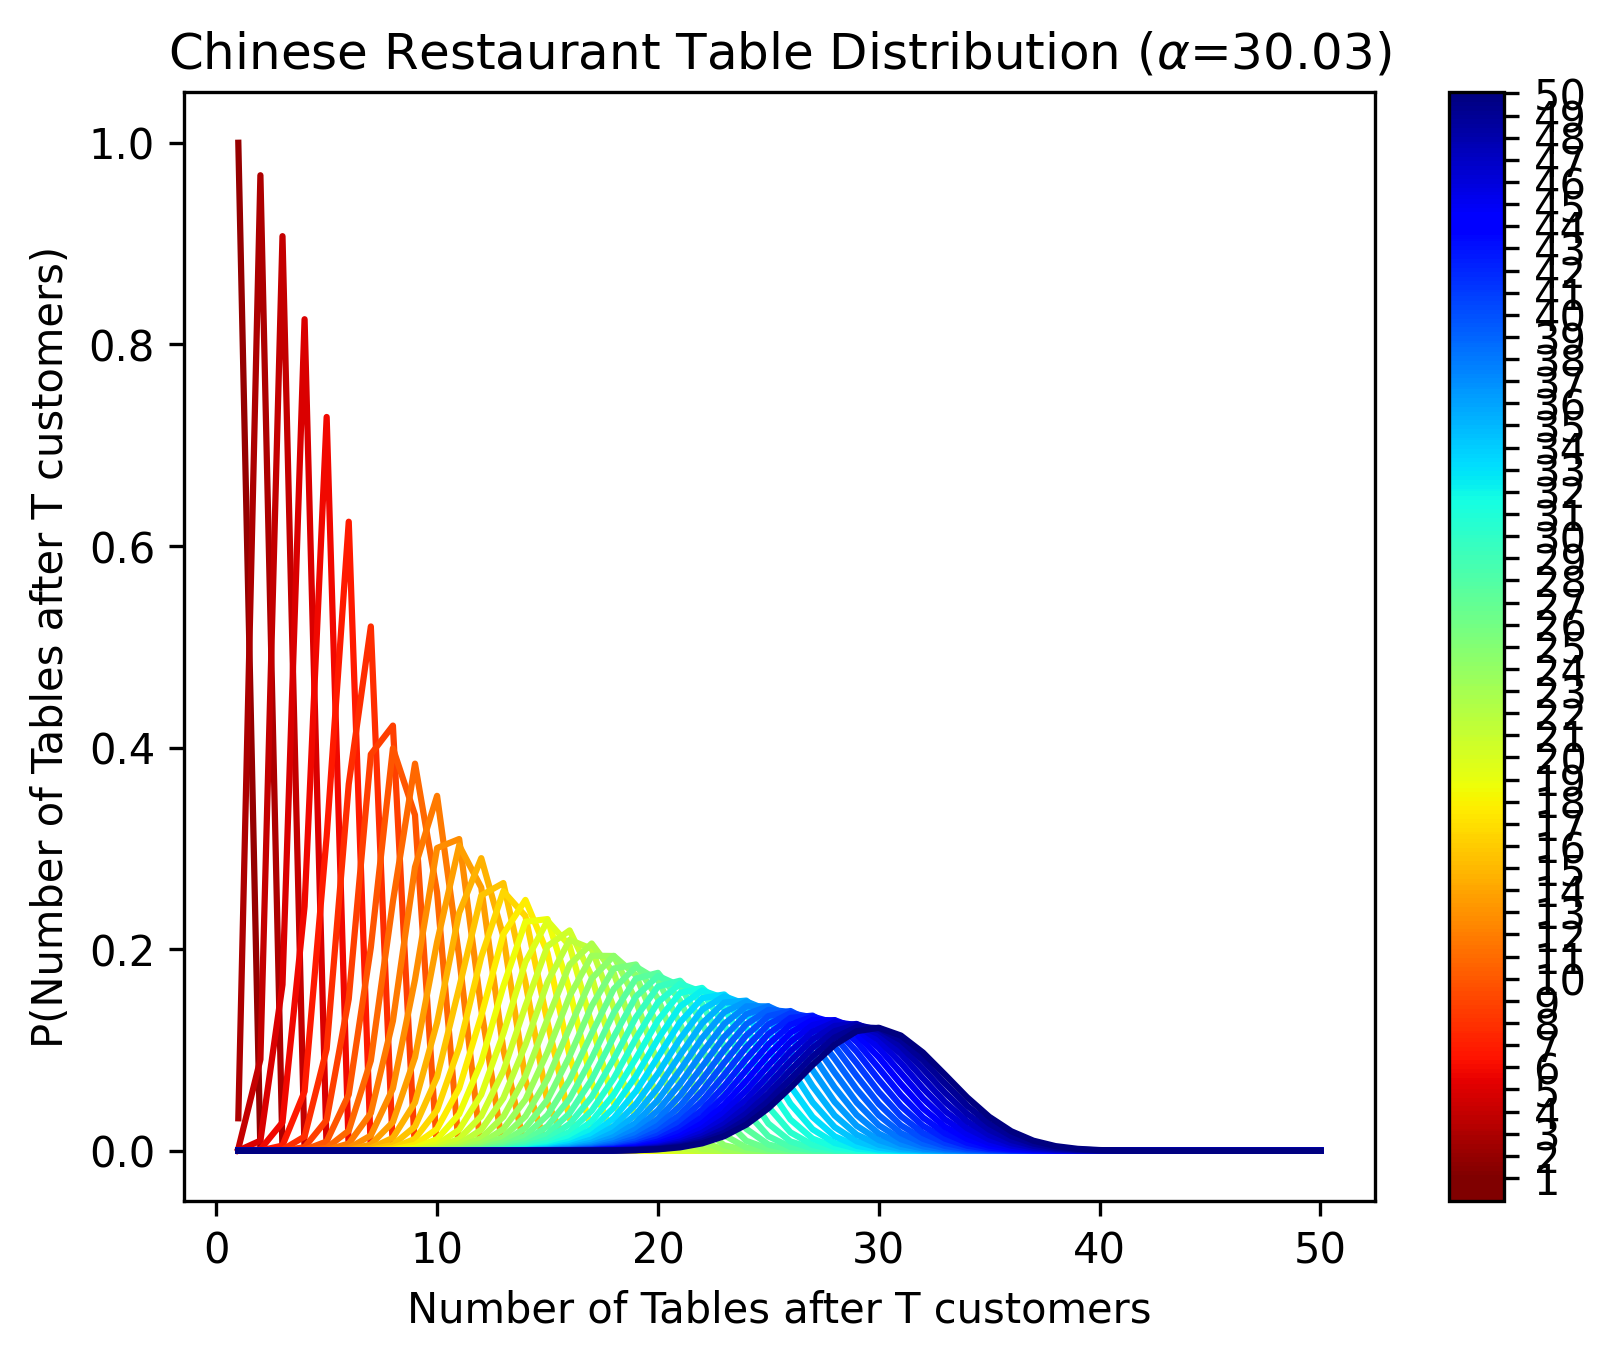
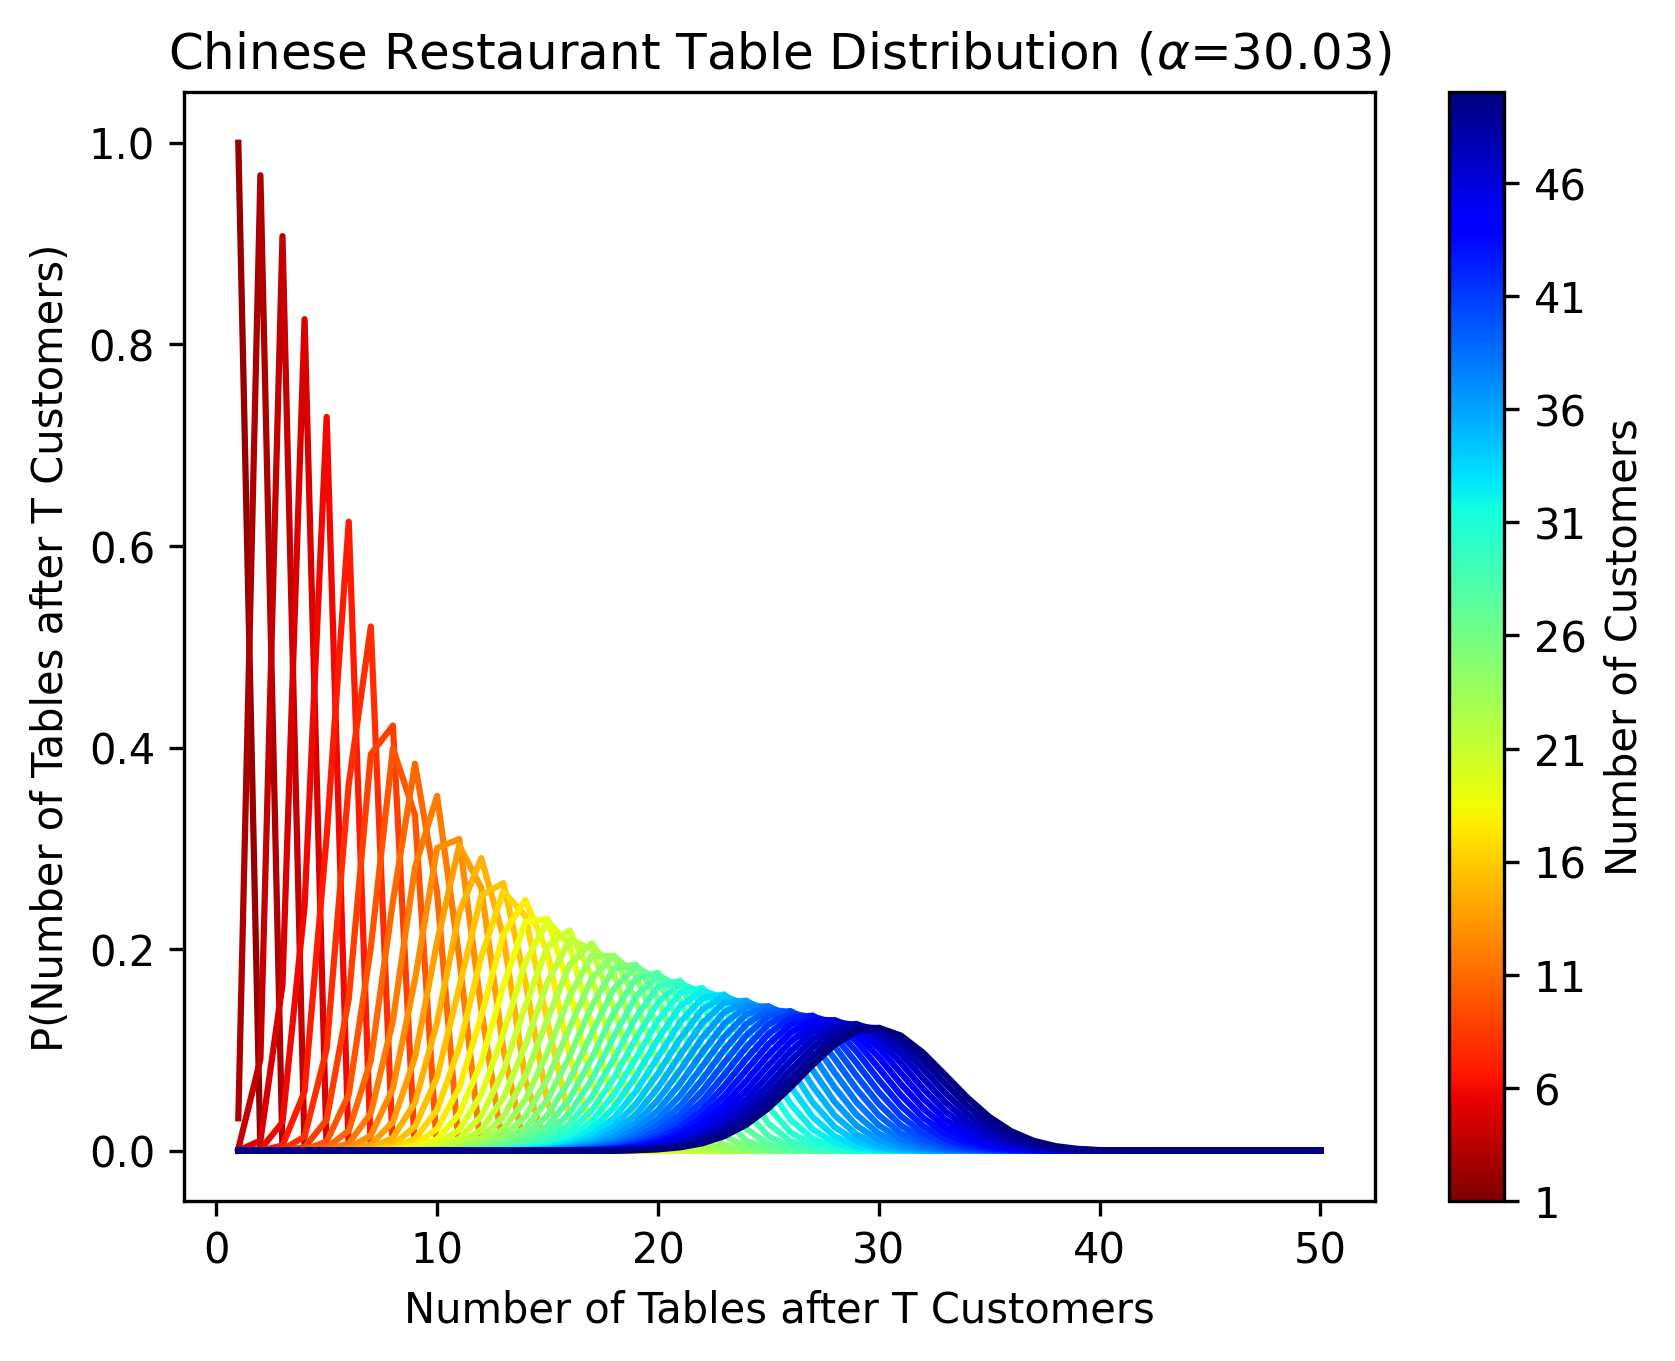
Fixed CRT distribution plot

diff --git a/exp_00_prior/main.py b/exp_00_prior/main.py
@@ -9,7 +9,6 @@ import scipy.stats
 import seaborn as sns
 from sympy.functions.combinatorial.numbers import stirling
 
-
 exp_dir = 'exp_00_prior'
 plot_dir = os.path.join(exp_dir, 'plots')
 os.makedirs(plot_dir, exist_ok=True)
@@ -68,7 +67,7 @@ table_distributions_by_alpha = {}
 for alpha in alphas:
     result = np.zeros(shape=T)
     for k in table_nums:
-        result[k-1] = prob_kth_table_exists_at_time_t(t=T, k=k, alpha=alpha)
+        result[k - 1] = prob_kth_table_exists_at_time_t(t=T, k=k, alpha=alpha)
     table_distributions_by_alpha[alpha] = result
     plt.plot(table_nums, table_distributions_by_alpha[alpha], label=f'alpha={alpha}')
 plt.legend()
@@ -82,29 +81,31 @@ alpha = 30.03
 cmap = plt.get_cmap('jet_r')
 for t in table_nums:
     result = np.zeros(shape=T)
-    for k in np.arange(1, 1+t):
-        result[k-1] = prob_kth_table_exists_at_time_t(t=t, k=k, alpha=alpha)
+    for k in np.arange(1, 1 + t):
+        result[k - 1] = prob_kth_table_exists_at_time_t(t=t, k=k, alpha=alpha)
     table_distributions_by_T[t] = result
     if t == 1 or t == T:
         plt.plot(table_nums,
                  table_distributions_by_T[t],
                  label=f'T={t}',
-                 color=cmap(float(t)/T))
+                 color=cmap(float(t) / T))
     else:
         plt.plot(table_nums,
                  table_distributions_by_T[t],
                  # label=f'T={t}',
-                 color=cmap(float(t)/T))
+                 color=cmap(float(t) / T))
 # https://stackoverflow.com/questions/43805821/matplotlib-add-colorbar-to-non-mappable-object
 norm = mpl.colors.Normalize(vmin=1, vmax=T)
 sm = plt.cm.ScalarMappable(cmap=cmap, norm=norm)
 # sm.set_array([])
-plt.colorbar(sm,
-             ticks=np.linspace(1, T, T),
-             boundaries=np.arange(-0.05, T + 0.1, .1))
+colorbar = plt.colorbar(sm,
+                        ticks=np.arange(1, T+1, 5),
+                        # boundaries=np.arange(-0.05, T + 0.1, .1)
+                        )
+colorbar.set_label('Number of Customers')
 plt.title(fr'Chinese Restaurant Table Distribution ($\alpha$={alpha})')
-plt.xlabel(r'Number of Tables after T customers')
-plt.ylabel(r'P(Number of Tables after T customers)')
+plt.xlabel(r'Number of Tables after T Customers')
+plt.ylabel(r'P(Number of Tables after T Customers)')
 plt.savefig(os.path.join(plot_dir, 'crt_table_distribution.png'),
             bbox_inches='tight',
             dpi=300)
